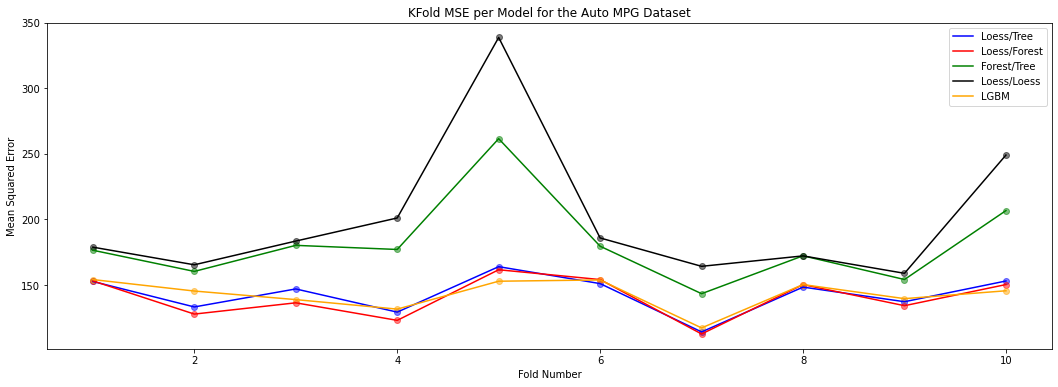
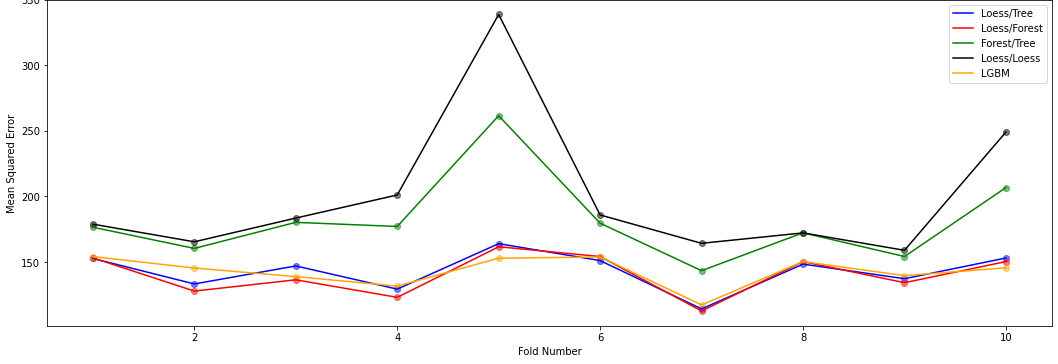
g

diff --git a/Projects/Project_4.md b/Projects/Project_4.md
@@ -3,7 +3,7 @@
 ## Abstract
 In this paper I compare different combinations of regression models and gradient boosting models, and asses their performance on the Concrete Compressive Strength dataset provided by USCI. I use a home-made repetitive gradient boosting algorithm on different combinations of Random Forest, Loess, and Decision Tree regressors. Here, I omit Neural Networks since their regression performance tends to be poor, and they are resource intensive.
 
-I also investiagate and apply LightGBM, Microsoft's resource-light gradient boosting machine. In the end, LightGBM out-performs my home-made algorithm with an average MSE of 108 versus my home made's 148, but only when the entire dataset is used (80% train, 20% test). Otherwise, during KFold validations, the best model was Loess withh three repeated RandomForest boosters. I believe this difference in performance has to do with LightGBM's overfitting problem on small datasets. The entire concrete compressive strength dataset has just 1048 observations, so splitting it during KFold makes it much too small for LightGBM.
+I also investiagate and apply LightGBM, Microsoft's resource-light gradient boosting machine. In the end, LightGBM out-performs my home-made algorithm with an average MSE of 108 versus my home made's 148, but only when the entire dataset is used (80% train, 20% test). Otherwise, during KFold validations, the best model was Loess with three repeated RandomForest boosters. I believe this difference in performance has to do with LightGBM's overfitting problem on small datasets. The entire concrete compressive strength dataset has just 1048 observations, so splitting it during KFold makes it much too small for LightGBM.
 
 ## Methods
 In this paper I designed a home made gradient boosting algorithm that could mix and match Decision Trees, Random Forests, and Loess regressors. The Loess regressor was also homemade. below is the code for the function,
@@ -60,7 +60,7 @@ def n_boost(X, y, xtest, model, nboost, booster, kern = None, tau = None, tau_b 
         rf_error = y - yhat_rf
       return yhat_test
 ```
-This function is able to use Loess, Random Forests, or Decision trees as both 'weak learners' and as gradient boosters. It works by a series of conditionals to figure out what the user would like to do, then training a weak learner and using a for loop to train a number of boosting algorithms for as many iterations as are input by the user.
+This function is able to use Loess, Random Forests, or Decision trees both as 'weak learners' and as gradient boosters. It works via series of conditionals that figure out what the user would like to do, and then by training a weak learner and using it for a loop to train a number of boosting algorithms for as many iterations as are input by the user.
 ## LightGBM
 LightGBM is a powerful gradient boosting algorithm that uses decision tree boosters. The thing that makes LightGBM different is that it grows its trees by each leaf, rather than by each level.  This means that for each decision tree, the only leaf that gets to split into the next level is the on with the highest loss. This is great for using fewer resources on large datasets, and for processing speed, however it can lead to overfitting on small datasets. This change is why LightGBM has 'light' in its name, as it used much less memory than other competitive algorithms and gives results quickly.
 
@@ -137,6 +137,6 @@ Surprisingly, LightGBM did not take the top spot. Instead Loess boosted by three
 
 <figure>
 <center>
-<img src='Data/Proj4_MSEs.png' width='1000px' />
-<figcaption>MSE Score per K Fold<figcaption></center>
+<img src='Data/Proj4_MSEs.png' width='1600px' />
+<figcaption>MSE Score per K Fold for Concrete Compressive Strength<figcaption></center>
 </figure>
